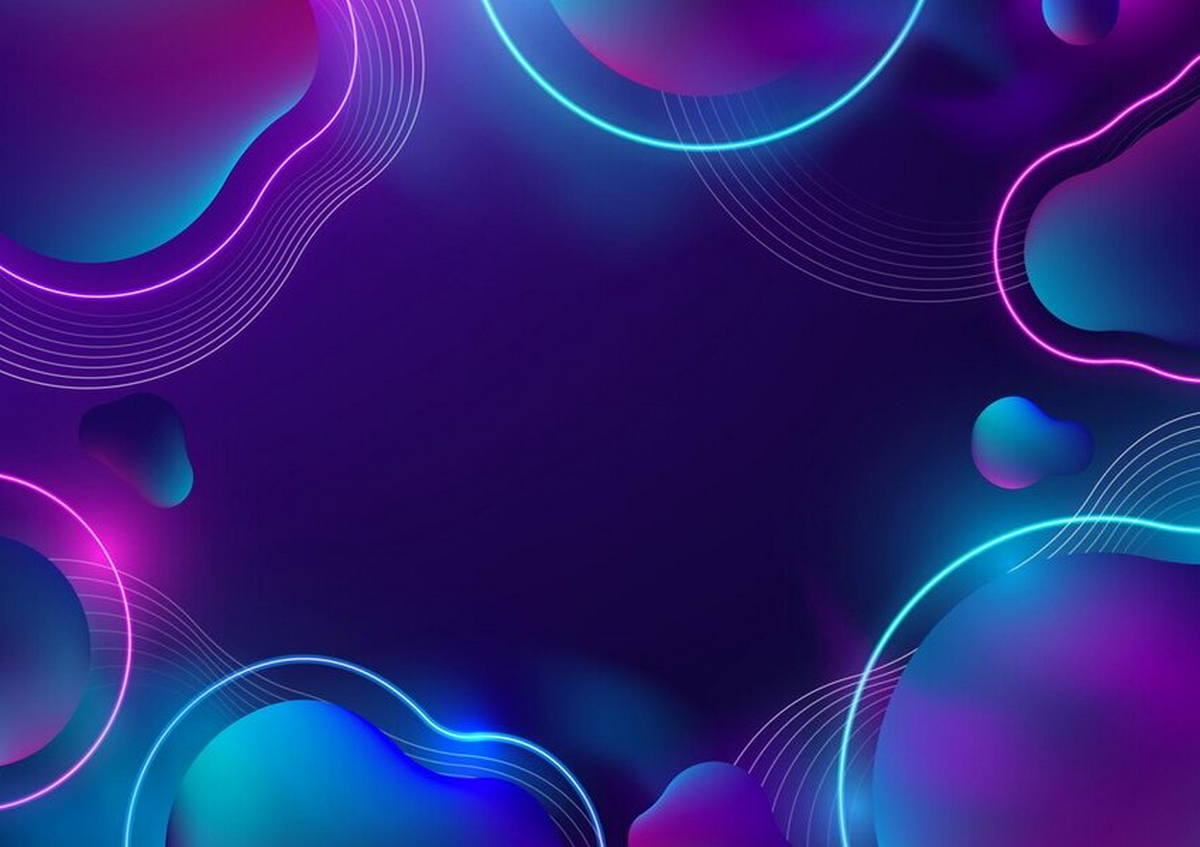
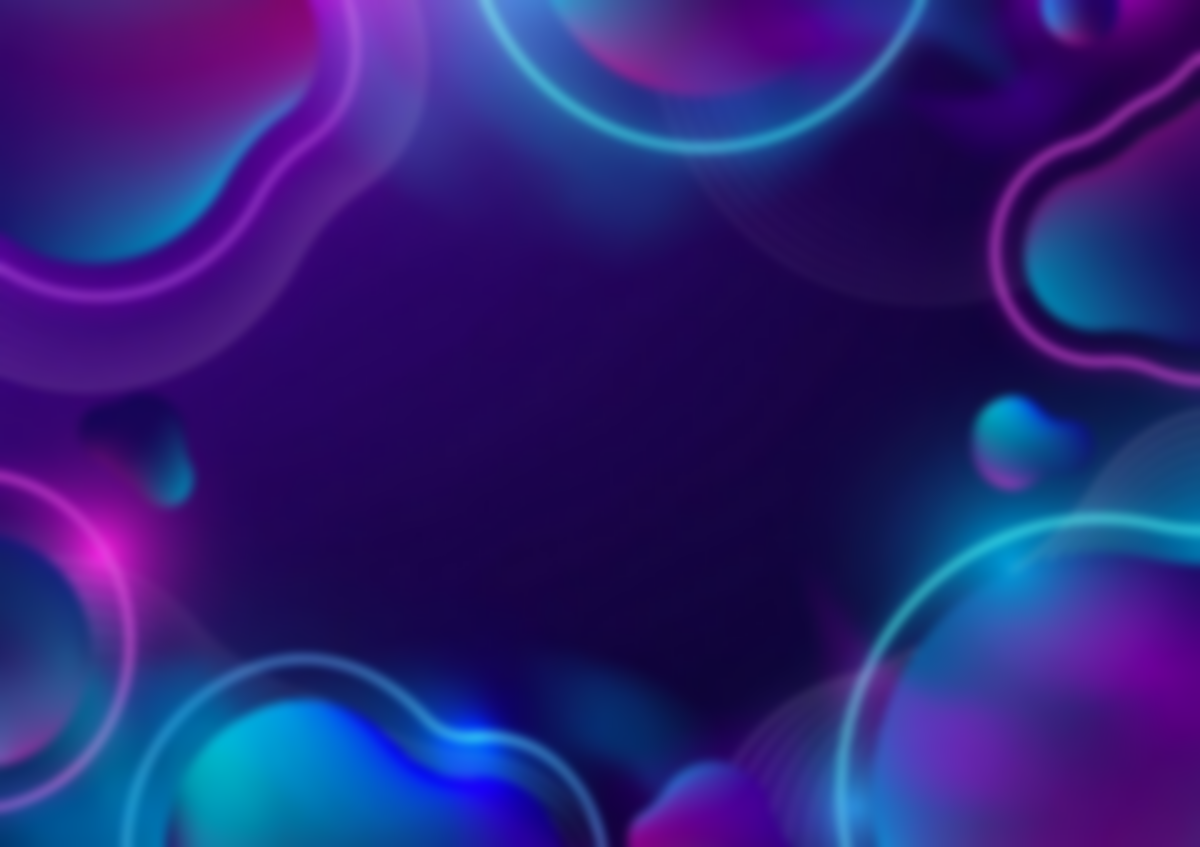
Gestion de la possibilité d'ajouter ou non un channel en fonction du rôle

diff --git a/source/pygame_manager/Cursor.py b/source/pygame_manager/Cursor.py
@@ -51,6 +51,7 @@ class Cursor:
         self.server_c_cursor = False
         self.settings_c_cursor = False
         self.poweroff_c_cursor = False
+        self.add_channel_cursor = False
         self.input_search_rect_cursor = False
     
     def set_cursor(self, rect, button):
@@ -74,7 +75,7 @@ class Cursor:
             self.status_active_cursor, self.login_cursor, self.google_cursor,
             self.facebook_cursor, self.instagram_cursor, self.forgot_p_cursor, self.sign_cursor,
             self.profile1_cursor, self.profile2_cursor, self.profile3_cursor, self.profile4_cursor,
-            self.surname_cursor, self.name_cursor, self.linkedinI_cursor, self.linkedinI_cursor, self.githubI_cursor, self.mailI_cursor, self.linkedinL_cursor, self.githubL_cursor, self.mailL_cursor, self.linkedinV_cursor, self.githubV_cursor, self.mailV_cursor, self.FacebookP_cursor, self.linkedinP_cursor, self.twitterP_cursor, self.instagramP_cursor, self.youtubeP_cursor, self.brochureP_cursor, self.cannes_cursor, self.toulon_cursor, self.marseille_cursor, self.martigues_cursor, self.bell_cursor,   self.link_logo_rect_cursor, self.server_c_cursor, self.settings_c_cursor, self.poweroff_c_cursor, self.input_search_rect_cursor
+            self.surname_cursor, self.name_cursor, self.linkedinI_cursor, self.linkedinI_cursor, self.githubI_cursor, self.mailI_cursor, self.linkedinL_cursor, self.githubL_cursor, self.mailL_cursor, self.linkedinV_cursor, self.githubV_cursor, self.mailV_cursor, self.FacebookP_cursor, self.linkedinP_cursor, self.twitterP_cursor, self.instagramP_cursor, self.youtubeP_cursor, self.brochureP_cursor, self.cannes_cursor, self.toulon_cursor, self.marseille_cursor, self.martigues_cursor, self.bell_cursor,   self.link_logo_rect_cursor, self.server_c_cursor, self.settings_c_cursor, self.poweroff_c_cursor, self.input_search_rect_cursor, self.add_channel_cursor
         ])
 
     def profile_page_cursor(self):
@@ -105,9 +106,10 @@ class Cursor:
     def  main_page_cursor(self):
         self.bell_cursor = self.set_cursor(self.bell, self.bell_cursor)
         self.link_logo_rect_cursor = self.set_cursor(self.link_logo_rect, self.link_logo_rect_cursor)
-        self.server_c_cursor = self.set_cursor(self.server_c, self.server_c_cursor)
-        self.settings_c_cursor = self.set_cursor(self.settings_c, self.settings_c_cursor)
-        self.poweroff_c_cursor = self.set_cursor(self.poweroff_c, self.poweroff_c_cursor)
+        self.server_c_cursor = self.set_cursor(self.circle1, self.server_c_cursor)
+        self.settings_c_cursor = self.set_cursor(self.circle2, self.settings_c_cursor)
+        self.poweroff_c_cursor = self.set_cursor(self.circle3, self.poweroff_c_cursor)
+        self.add_channel_cursor = self.set_cursor(self.circle4, self.add_channel_cursor)
         self.input_search_rect_cursor = self.set_cursor(self.input_search_rect, self.input_search_rect)
 
     def register_cursor(self):

diff --git a/source/gui/MainPage.py b/source/gui/MainPage.py
@@ -70,14 +70,6 @@ class MainPage(Gui, Client, DiscordManager):
             self.img_center("Logo principal", 64, 170, 70, 70,"main_page/main_page2")
             self.img_center("Neon circle", 64, 170, 110, 110,"main_page/main_page4")
             
-        # Hover Add Channel
-        self.circle4 = pygame.draw.circle(self.Window, self.grey10, (64, 485), 35)
-        if self.is_mouse_over_button(self.circle4):
-            self.img_center("Add Channel", 65, 485, 45, 45,"main_page/main_page13")
-            self.img_center("Neon circle", 64, 485, 95 , 95,"main_page/main_page4")   
-        else:      
-            self.img_center("Add Channel", 65, 485, 45, 45,"main_page/main_page13")
-            self.img_center("Neon circle", 64, 485, 90, 90,"main_page/main_page4")
             
         # Hover settings
         self.circle2 = pygame.draw.circle(self.Window, self.grey10, (64, 565), 35)
@@ -96,6 +88,17 @@ class MainPage(Gui, Client, DiscordManager):
         else:      
             self.img_center("Power Off", 64, 645, 55, 55,"main_page/main_page9")
             self.img_center("Neon circle", 64, 645, 90, 90,"main_page/main_page4")
+
+        # Hover Add Channel
+        logo_add_channel = 'main_page13' if self.user_info[7] == 1 else 'main_page1'
+        self.circle4 = pygame.draw.circle(self.Window, self.grey10, (64, 485), 35)
+        if self.is_mouse_over_button(self.circle4):
+            self.img_center("Add Channel", 65, 485, 45, 45,f"main_page/{logo_add_channel}")
+            self.img_center("Neon circle", 64, 485, 95 , 95,"main_page/main_page4")   
+        else:      
+            self.img_center("Add Channel", 65, 485, 45, 45,f"main_page/{logo_add_channel}")
+            self.img_center("Neon circle", 64, 485, 90, 90,"main_page/main_page4")
+
 
     def second_section(self):
         self.rect_full(self.grey10, 257, 385, 260, 610, 10)

diff --git a/data/DiscordManager.py b/data/DiscordManager.py
@@ -178,51 +178,22 @@ class DiscordManager(Database):
 
     def close_connection(self):
         self.disconnect()
-
-    def add_abc_password (self, password, id_user):
-        sql = "INSERT INTO password (password, id_user) VALUES (%s, %s)"
-        values = (password, id_user)
-        self.execute_query(sql, values)
-
     
     def add_emoji(self, id_mes,nb_react):
         sql = 'UPDATE message SET react=%s WHERE id=%s'
-        values = (id_mes, nb_react)
+        values = (nb_react, id_mes)
         self.execute_query(sql, values)
-        
-
-    def save_last_login_date(self): 
-        pass
-
-    def load_last_login_date(self):
-        pass
-   
 
     def add_abc_password (self, password, id_user):
         sql = "INSERT INTO password (password, id_user) VALUES (%s, %s)"
         values = (password, id_user)
         self.execute_query(sql, values)
 
-
     def save_last_login_date(self): 
         pass
 
     def load_last_login_date(self):
         pass
-   
-
-    def add_abc_password (self, password, id_user):
-        sql = "INSERT INTO password (password, id_user) VALUES (%s, %s)"
-        values = (password, id_user)
-        self.execute_query(sql, values)
-
-
-    def save_last_login_date(self): 
-        pass
-
-    def load_last_login_date(self):
-        pass
-   
 
     # Modifier Role
     # def modify_role(self, user_id, id_role):

diff --git a/source/pygame_manager/EventHandler.py b/source/pygame_manager/EventHandler.py
@@ -325,14 +325,14 @@ class EventHandler():
                     self.main_page_running = False
 
                 elif self.circle4.collidepoint(event.pos):
-                    self.main_page_to_add_channel = True
-                    self.add_channel_running = True
-                    self.main_page_running = False
+                    if self.user_info[7] == 1:
+                        self.main_page_to_add_channel = True
+                        self.add_channel_running = True
+                        self.main_page_running = False
 
                 elif self.notification_c.collidepoint(event.pos): 
                     self.reset_new_message_counter()                   
 
-                
             elif event.type == pygame.MOUSEBUTTONUP:
                  if self.link_logo_rect.collidepoint(event.pos):
                     self.link_is_clicked = True  

diff --git a/source/gui/Profile.py b/source/gui/Profile.py
@@ -43,7 +43,8 @@ class Profile(Gui, Client):
 
     def design(self):
         # Profile main rectangle
-        self.img_background_blur("Background",600, 350, 1200, 700, "main_page/main_page8", blur_radius=5)
+        self.img_background("Background", 600, 350, 1200, 800, "main_page/main_page8")
+
         self.rect_radius_top(self.theme_color, 750, 90, 800, 100, 10)
         self.rect_radius_bot(self.grey5, 750, 400, 800, 520, 10)
         
@@ -263,7 +264,6 @@ class Profile(Gui, Client):
             self.password_display = " *" * len(self.profile_password)
 
         if self.profile_running :
-            print(self.old_password, self.profile_password)
             self.design()
             self.display_user_community()
             self.profile_picture_edit()
